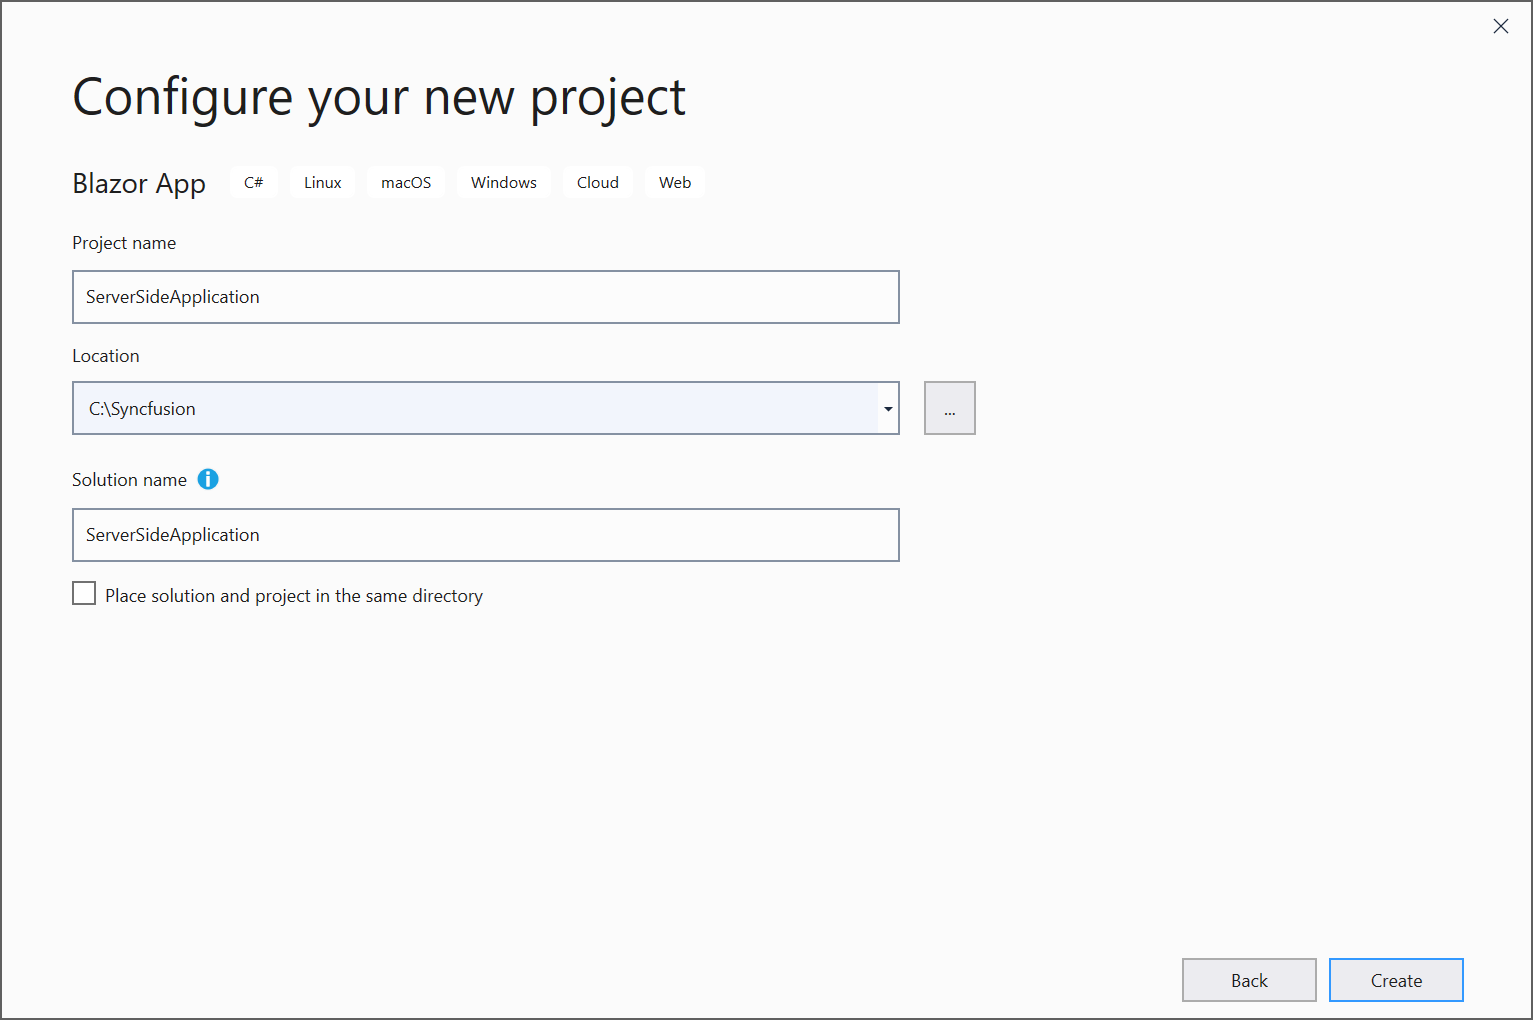
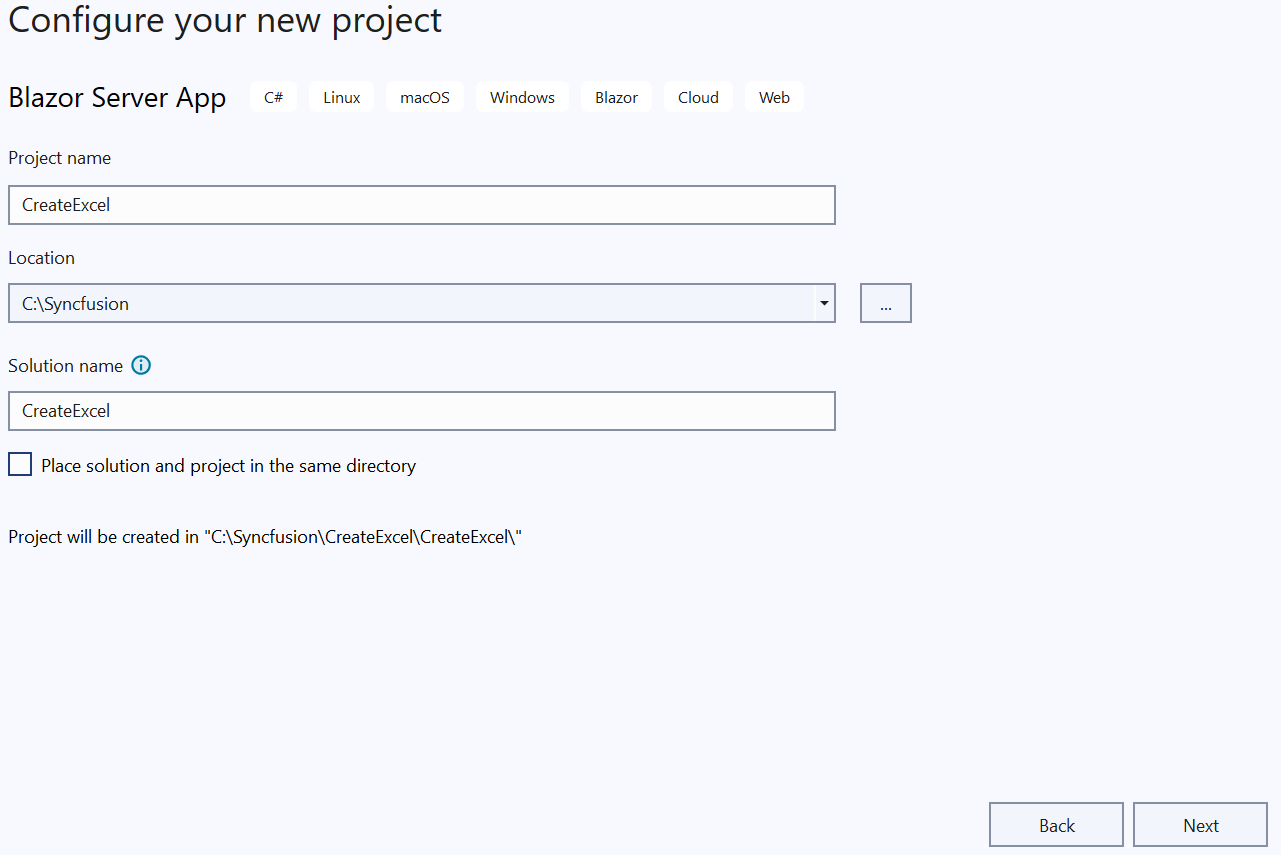
935888-Blazor-VSCode

diff --git a/Document-Processing/Excel/Excel-Library/NET/Create-read-edit-excel-files-in-blazor-c-sharp.md b/Document-Processing/Excel/Excel-Library/NET/Create-read-edit-excel-files-in-blazor-c-sharp.md
@@ -16,19 +16,19 @@ The below steps illustrates the creation of a simple Invoice formatted Excel doc
 {% tabcontents %}
 
 {% tabcontent Visual Studio %}
-Step 1: Create a new C# Blazor Server-Side application project. Select Blazor App from the template and click the Next button.
+* Create a new C# Blazor Server-Side application project. Select Blazor App from the template and click the Next button.
 
 ![Create Blazor Server Side application in Visual Studio](Blazor_images/Blazor_images_Blazor_App.png)
 
-Step 2: Now, the project configuration window will popup. Click Create button to create a new project with the required project name.
+* Now, the project configuration window will popup. Click Create button to create a new project with the required project name.
 
 ![Create Blazor Server Side application in Visual Studio](Blazor_images/Blazor_images_Server_ProjectName.png)
 
-Step 3: Choose Blazor Server App and click Create button to create a new Blazor Server-Side application for .NET Core 3.0.0-preview9.
+* Choose Blazor Server App and click Create button to create a new Blazor Server-Side application for .NET Core 3.0.0-preview9.
 
 ![Create Blazor Server Side application in Visual Studio](Blazor_images/Blazor_images_Blazor_Server_App.png)
 
-Step 4: Install the [Syncfusion.XlsIO.Net.Core](https://www.nuget.org/packages/Syncfusion.XlsIO.Net.Core) NuGet package as reference to your Blazor application from [NuGet.org](https://www.nuget.org).
+* Install the [Syncfusion.XlsIO.Net.Core](https://www.nuget.org/packages/Syncfusion.XlsIO.Net.Core) NuGet package as reference to your Blazor application from [NuGet.org](https://www.nuget.org).
 
 ![Install Syncfusion.XlsIO.Net.Core Nuget Package](Blazor_images/Blazor_images_NuGet.png)
 
@@ -37,50 +37,42 @@ Step 4: Install the [Syncfusion.XlsIO.Net.Core](https://www.nuget.org/packages/S
 {% tabcontents %}
 
 {% tabcontent Visual Studio Code %}
-Step 1: Create a new C# Blazor Server-Side application project using Create.Net Project option. Select Blazor App from the templates.
+* Create a new C# Blazor Serevr app project using Visual Studio Code via [Microsoft Templates](https://learn.microsoft.com/en-us/aspnet/core/blazor/tooling?view=aspnetcore-7.0&pivots=vsc).
 
-![Create Blazor Server Side application in Visual Studio](Blazor_images/Blazor_images_Blazor_App_VSCode.png)
-
-Alternatively, create a Server application using the following command in the terminal.
+Alternatively, create a Server application using the following command in the terminal(<kbd>Ctrl</kbd>+<kbd>`</kbd>).
 
 ```
-dotnet new blazorserver -o Create-Excel
-cd Create-Excel
+dotnet new blazorserver -o CreateExcel
+cd CreateExcel
 ```
-
-Step 2: Select the folder where you want to create the project.
-
-Step 3: Now, provide the required project name. And click create project.
 
 ![Create Blazor Server Side application in Visual Studio](Blazor_images/Blazor_images_Server_ProjectName_VSCode.png)
 
-Step 4: Open the terminal in Visual Studio Code. Run the following command to install the [Syncfusion.XlsIO.Net.Core](https://www.nuget.org/packages/Syncfusion.XlsIO.Net.Core) NuGet package as reference to your Blazor application.
+* To **create a Excel document in Blazor Server app**,run the following command to  install [Syncfusion.XlsIO.Net.Core](https://www.nuget.org/packages/Syncfusion.XlsIO.Net.Core) to the Blazor project.
 
 ```
 dotnet add package Syncfusion.XlsIO.Net.Core
 ```
 
-![Install Syncfusion.XlsIO.Net.Core Nuget Package](Blazor_images/Blazor_images_NuGet_VSCode.png)
-
 {% endtabcontent %}
 
 N> Starting with v16.2.0.x, if you reference Syncfusion<sup>&reg;</sup> assemblies from trial setup or from the NuGet feed, you also have to add "Syncfusion.Licensing" assembly reference and include a license key in your projects. Please refer to this [link](https://help.syncfusion.com/common/essential-studio/licensing/overview) to know about registering Syncfusion<sup>&reg;</sup> license key in your applications to use our components. 
 
-Step 5: Create a razor file with name as ``Excel`` under ``Pages`` folder and include the following namespaces in the file.
+* Create a razor file with name as ``Excel`` under ``Pages`` folder and include the following namespaces in the file.
 {% capture codesnippet1 %}
 {% tabs %}
 {% highlight c# tabtitle="C#" %}
 @page "/Excel"
 @using System.IO;
-@using ServerSideApplication;
-@inject Create_Excel.Data.CreateExcel service
+@using CreateExcel;
+@inject CreateExcel.Data.CreateExcel service
 @inject Microsoft.JSInterop.IJSRuntime JS
 {% endhighlight %}
 {% endtabs %}
 {% endcapture %}
 {{ codesnippet1 | OrderList_Indent_Level_1 }}
 
-Step 6: Add the following code to create a new button.
+* Add the following code to create a new button.
 {% capture codesnippet2 %}
 {% tabs %}
 {% highlight CSHTML %}
@@ -92,7 +84,7 @@ Step 6: Add the following code to create a new button.
 {% endcapture %}
 {{ codesnippet2 | OrderList_Indent_Level_1 }}
 
-Step 7: Add the following code in ``Excel.razor`` file to create and download the Excel document.
+* Add the following code in ``Excel.razor`` file to create and download the Excel document.
 {% capture codesnippet3 %}
 {% tabs %}
 {% highlight c# tabtitle="C#" %}
@@ -113,7 +105,7 @@ Step 7: Add the following code in ``Excel.razor`` file to create and download th
 {% endcapture %}
 {{ codesnippet3 | OrderList_Indent_Level_1 }}
 
-Step 8: Create a new cs file with name as ``CreateExcel`` under ``Data`` folder and include the following namespaces in the file.
+* Create a new cs file with name as ``CreateExcel`` under ``Data`` folder and include the following namespaces in the file.
 {% capture codesnippet4 %}
 {% tabs %}
 {% highlight c# tabtitle="C#" %}
@@ -125,7 +117,7 @@ Step 8: Create a new cs file with name as ``CreateExcel`` under ``Data`` folder 
 {% endcapture %}
 {{ codesnippet4 | OrderList_Indent_Level_1 }}
 
-Step 9: Create a new MemoryStream method with name as ``CreateDocument`` and include the following code snippet to create a simple Invoice formatted Excel document in Blazor Server-Side application.
+* Create a new MemoryStream method with name as ``CreateDocument`` and include the following code snippet to create a simple Invoice formatted Excel document in Blazor Server-Side application.
 {% capture codesnippet5 %}
 {% tabs %}
 {% highlight c# tabtitle="C#" %}
@@ -314,7 +306,7 @@ using (ExcelEngine excelEngine = new ExcelEngine())
 {% endcapture %}
 {{ codesnippet5 | OrderList_Indent_Level_1 }}
 
-Step 10: Create a new class file in the project, with name as ``FileUtils`` and add the following code to invoke the JavaScript action for downloading the file in browser.
+* Create a new class file in the project, with name as ``FileUtils`` and add the following code to invoke the JavaScript action for downloading the file in browser.
 {% capture codesnippet6 %}
 {% tabs %}
 {% highlight c# tabtitle="C#" %}
@@ -331,7 +323,7 @@ public static class FileUtils
 {% endcapture %}
 {{ codesnippet6 | OrderList_Indent_Level_1 }}
 
-Step 11: Add the following JavaScript function in the ``_Host.cshtml`` file present under ``Pages`` folder.
+* Add the following JavaScript function in the ``_Host.cshtml`` file present under ``Pages`` folder.
 {% capture codesnippet7 %}
 {% tabs %}
 {% highlight c# tabtitle="C#" %}
@@ -366,7 +358,7 @@ Step 11: Add the following JavaScript function in the ``_Host.cshtml`` file pres
 {% endcapture %}
 {{ codesnippet7 | OrderList_Indent_Level_1 }}
 
-Step 12: Add the following code under ``NavMenu.razor`` file present under ``Shared`` folder.
+* Add the following code under ``NavMenu.razor`` file present under ``Shared`` folder.
 
 {% tabs %}
 {% highlight c# tabtitle="C#" %}
@@ -378,7 +370,7 @@ Step 12: Add the following code under ``NavMenu.razor`` file present under ``Sha
 {% endhighlight %}
 {% endtabs %}
 
-Step 13: Add the service to services collection in ``ConfigureServices`` method of ``Startup.cs`` file.
+* Add the service to services collection in ``ConfigureServices`` method of ``Startup.cs`` file.
 
 {% tabs %}
 {% highlight c# tabtitle="C#" %}
